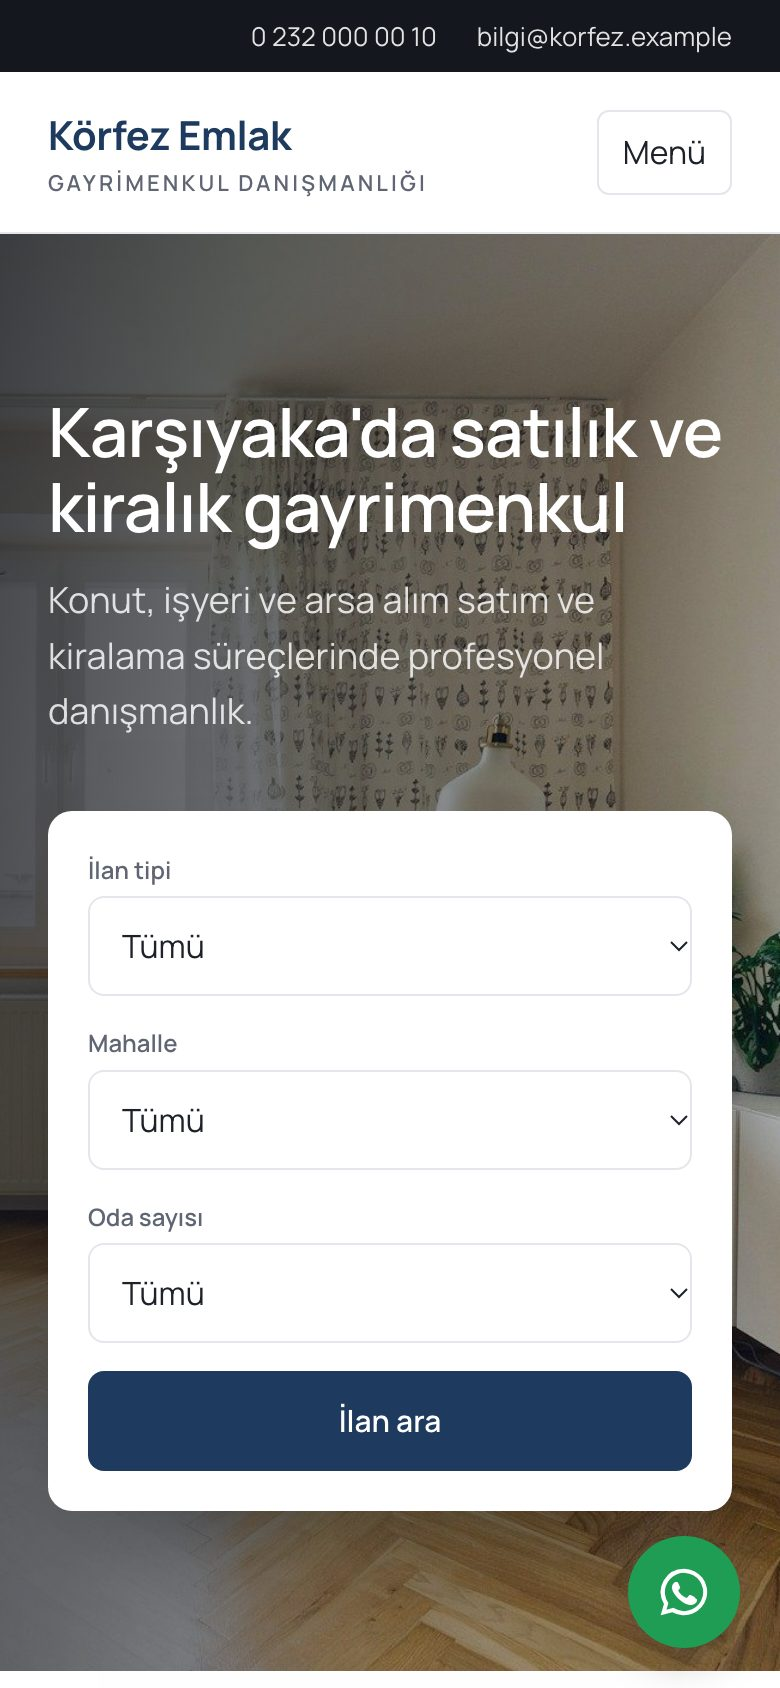
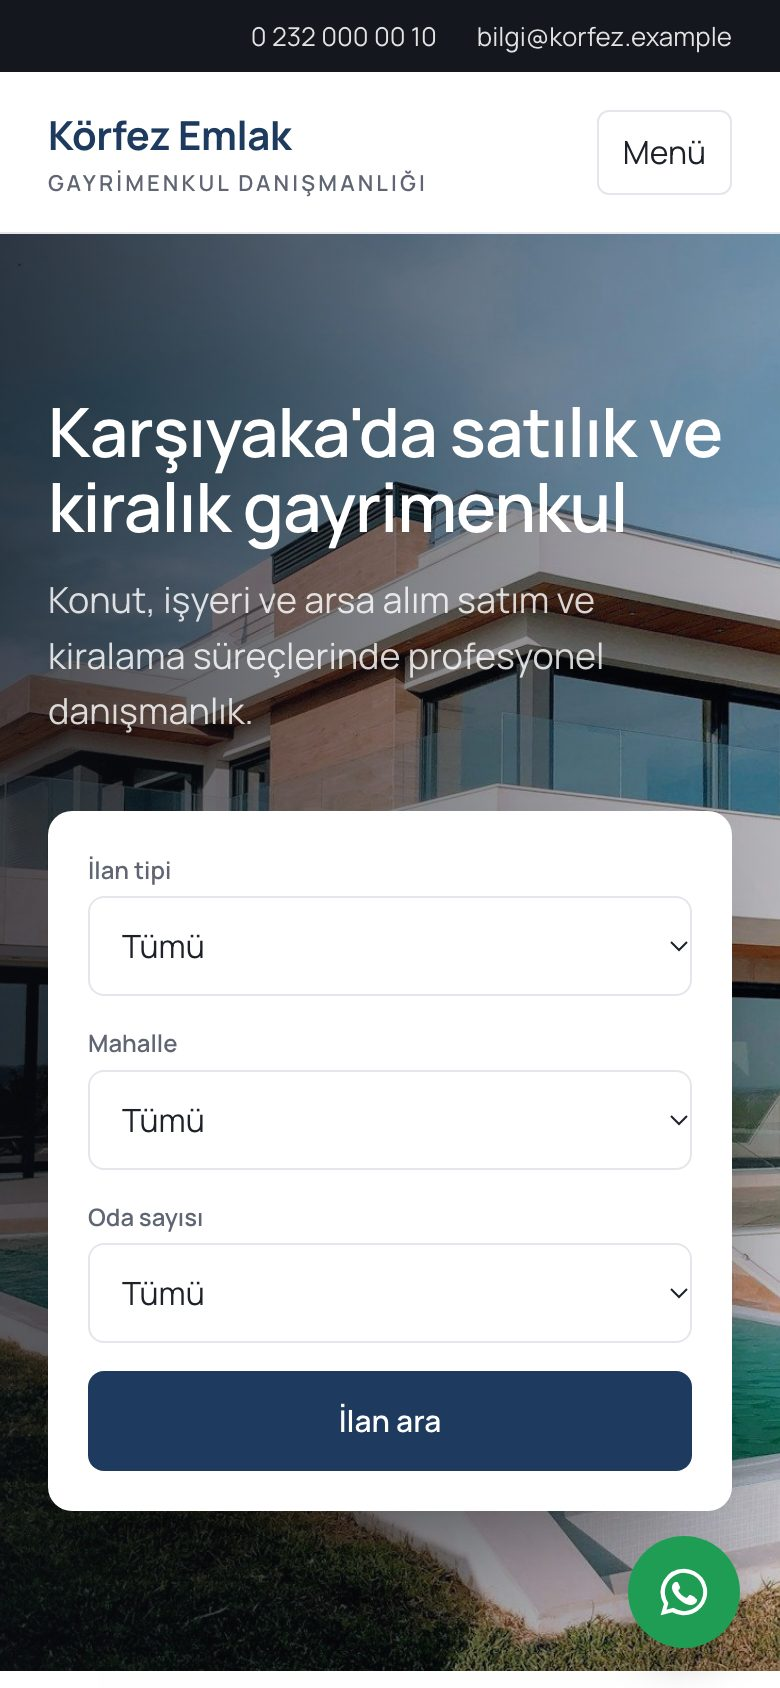
Hero: site, phone and animated panel notification composition

diff --git a/css/konutra.css b/css/konutra.css
@@ -201,3 +201,27 @@ h1, h2, h3 { font-family: var(--font-head); font-weight: 500; color: var(--navy)
   *, *::before, *::after { transition-duration: .01ms !important; animation: none !important; scroll-behavior: auto !important; }
 }
 .live .switch .ornek-ad { font-size: 14px; font-weight: 500; color: var(--text); }
+
+/* Ana görsel: site, telefon ve panel bildirimi. Taslak 1120 x 600 ölçüsündedir; her şey kutunun genişliğine göre
+   (cqw) orantılı küçülür, böylece telefonda da aynı kompozisyon görünür. 1cqw = taslakta 11,2 piksel. */
+.sahne { position: relative; aspect-ratio: 1120 / 600; container-type: inline-size; border-radius: 16px; background: linear-gradient(160deg, #eef0f5, #dde2ec); overflow: hidden; }
+.sahne .site { position: absolute; left: 5.4%; top: 8.3%; width: 73.2%; box-shadow: 0 2.7cqw 6.2cqw -3.1cqw rgba(21,25,42,.45); }
+.sahne .site .bar { height: 2.3cqw; gap: .6cqw; padding: 0 1.1cqw; }
+.sahne .site .bar i { width: .8cqw; height: .8cqw; }
+.sahne .tel { position: absolute; left: 73.2%; top: 25%; width: 20.5%; border: .8cqw solid #15171f; border-radius: 3.2cqw; overflow: hidden; background: #15171f; box-shadow: 0 3.6cqw 6.2cqw -2.2cqw rgba(0,0,0,.5); }
+.sahne .tel img { width: 100%; border-radius: 2.4cqw; }
+.bildirim { position: absolute; right: 1.8%; top: 6.7%; width: 25.9%; background: #fff; border-radius: 1.1cqw; padding: 1.25cqw 1.45cqw; box-shadow: 0 2.1cqw 4.5cqw -1.8cqw rgba(21,25,42,.45); font-size: 1.25cqw; line-height: 1.4; z-index: 2; }
+.bildirim .ust { display: flex; justify-content: space-between; font-size: 1.07cqw; color: var(--muted); margin-bottom: .55cqw; }
+.bildirim .ust b { color: var(--navy); font-weight: 600; }
+.bildirim .t { font-weight: 600; color: var(--fg); }
+.bildirim .s { color: var(--muted); margin-top: .2cqw; }
+.bildirim .dur { display: inline-block; margin-top: .7cqw; font-size: 1.07cqw; font-weight: 600; background: #fdecea; color: #b42318; padding: .2cqw .8cqw; border-radius: 2cqw; }
+
+/* Ana görsel animasyonu */
+.js .sahne .site { opacity: 0; transform: translateY(24px); transition: opacity .9s var(--ease), transform .9s var(--ease); }
+.js .sahne .tel { opacity: 0; transform: translateX(40px); transition: opacity .9s var(--ease) .25s, transform .9s var(--ease) .25s; }
+.js .sahne .bildirim { opacity: 0; transform: translateY(-10px) scale(.96); transition: opacity .5s var(--ease), transform .5s var(--ease); }
+.js .sahne.on .site, .js .sahne.on .tel { opacity: 1; transform: none; }
+.js .sahne .bildirim.on { opacity: 1; transform: none; }
+.bildirim .dur.yesil { background: #e7f6ec; color: #18794e; }
+@media (prefers-reduced-motion: reduce) { .js .sahne .site, .js .sahne .tel, .js .sahne .bildirim { opacity: 1; transform: none; transition: none; } }

diff --git a/js/konutra.js b/js/konutra.js
@@ -42,3 +42,28 @@ $("form").addEventListener("submit", (e) => {
   const msg = [`Merhaba, ofisimiz için Konutra demosu talep ediyoruz.`, `Ad soyad: ${d.ad}`, `Ofis: ${d.ofis}`, `Telefon: ${d.tel}`, d.ilce && `İlçe: ${d.ilce}`, d.link && `Sahibinden: ${d.link}`].filter(Boolean).join("\n");
   window.open(wa(msg), "_blank", "noopener");
 });
+
+// Ana görsel: site ve telefon belirir, panel bildirimi birkaç saniyede bir değişir
+(() => {
+  const sahne = document.querySelector(".sahne"), b = document.getElementById("bildirim");
+  if (!sahne || !b) return;
+  const azalt = matchMedia("(prefers-reduced-motion: reduce)").matches;
+  const liste = [
+    ["Yeni gezme randevusu talebi", "Bostanlı'da Deniz Manzaralı 3+1 Daire", "Yeni", ""],
+    ["Yeni değerleme başvurusu", "Mavişehir, 4+1 daire", "Yeni", ""],
+    ["İlan yayına alındı", "Alaybey'de Yatırımlık Satılık 1+1 Daire", "Yayında", "yesil"],
+    ["Yeni iletişim talebi", "Kiralık 2+1 daire arıyor", "Yeni", ""]
+  ];
+  let i = 0;
+  const yaz = ([t, s, d, c]) => {
+    b.querySelector(".t").textContent = t; b.querySelector(".s").textContent = s;
+    const e = b.querySelector(".dur"); e.textContent = d; e.className = "dur" + (c ? " " + c : "");
+  };
+  requestAnimationFrame(() => sahne.classList.add("on"));
+  if (azalt) { b.classList.add("on"); return; }
+  setTimeout(() => b.classList.add("on"), 1100);
+  setInterval(() => {
+    b.classList.remove("on");
+    setTimeout(() => { i = (i + 1) % liste.length; yaz(liste[i]); b.classList.add("on"); }, 500);
+  }, 4200);
+})();

diff --git a/index.html b/index.html
@@ -67,7 +67,11 @@
 
   <section class="wrap">
     <figure class="hero-shot">
-      <div class="browser"><div class="bar"><i></i><i></i><i></i></div><picture><source srcset="img/site-home.webp" type="image/webp"><img src="img/site-home.jpg" width="1600" height="1000" alt="Konutra ile hazırlanmış örnek emlak sitesinin ana sayfası" fetchpriority="high"></picture></div>
+      <div class="sahne">
+      <div class="browser site"><div class="bar"><i></i><i></i><i></i></div><picture><source srcset="img/site-home.webp" type="image/webp"><img src="img/site-home.jpg" width="1600" height="1000" alt="Konutra ile hazırlanmış örnek emlak sitesinin ana sayfası" fetchpriority="high"></picture></div>
+        <div class="tel"><img src="img/mob-ilan.jpg" width="780" height="1688" alt="Örnek sitenin telefondaki ilan sayfası" loading="lazy"></div>
+        <div class="bildirim" id="bildirim" aria-hidden="true"><div class="ust"><b>Konutra paneli</b><span>Şimdi</span></div><div class="t">Yeni gezme randevusu talebi</div><div class="s">Bostanlı'da Deniz Manzaralı 3+1 Daire</div><span class="dur">Yeni</span></div>
+      </div>
       <figcaption>Örnek proje. Ofis ve ilanlar temsilidir.</figcaption>
     </figure>
     <div class="trust">
